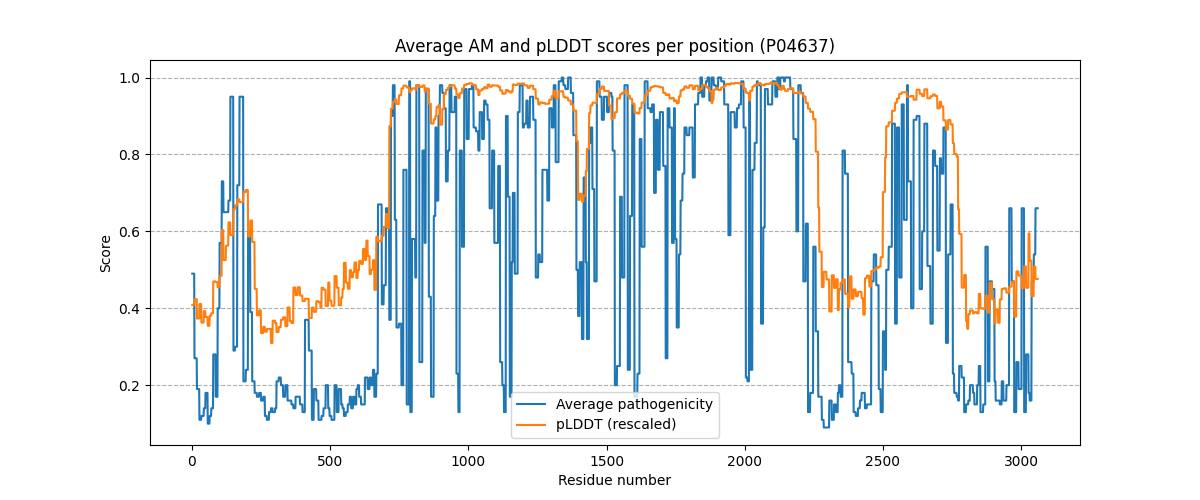
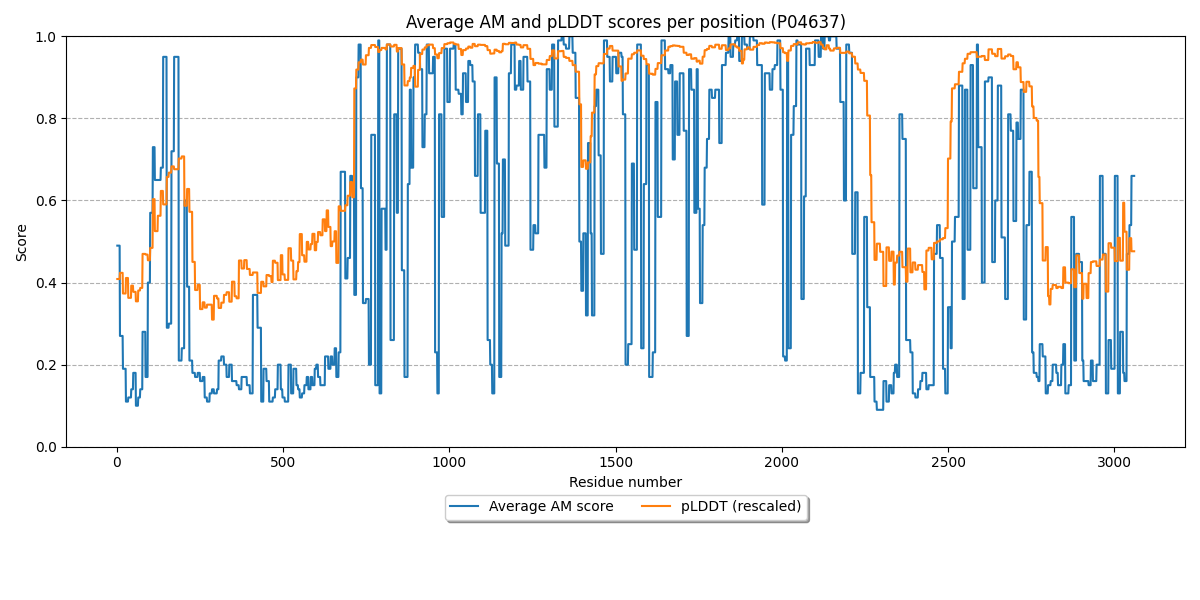
moving_legend

diff --git a/plots.py b/plots.py
@@ -66,18 +66,26 @@ def plot_scores(pathogenicity_scores, plddt_scores, uniprot_id):
     df = pd.DataFrame(data)
 
     # Create line plots with Seaborn
-    plt.figure(figsize=(12, 5))
-    sns.lineplot(x='Residue number', y='Average pathogenicity', data=df, label='Average pathogenicity')
+    plt.figure(figsize=(12, 6))
+    ax = plt.subplot(111)
+    sns.lineplot(x='Residue number', y='Average pathogenicity', data=df, label='Average AM score')
     sns.lineplot(x='Residue number', y='pLDDT (rescaled)', data=df, label='pLDDT (rescaled)')
 
     # Add labels, title, and legend
     plt.xlabel('Residue number')
     plt.ylabel('Score')
+    plt.ylim(0, 1)
     plt.title(f'Average AM and pLDDT scores per position ({uniprot_id})')
-    plt.legend()
+    
+    # Place the legend outside the chart
+    # Put a legend below current axis
+    ax.legend(loc='upper center', bbox_to_anchor=(0.5, -0.1),
+              fancybox=True, shadow=True, ncol=5)
+
     plt.grid(axis='y', linestyle='--')  # Optional grid
 
         # Save the plot to a file
+    plt.tight_layout(rect=[0, 0.1, 1, 1])  # Leaves space below for the legend
     output_directory = "data_output"
     output_file = os.path.join(output_directory, f"graph_plDDT-AM-score_{uniprot_id}.png")
     plt.savefig(output_file) #save file 
